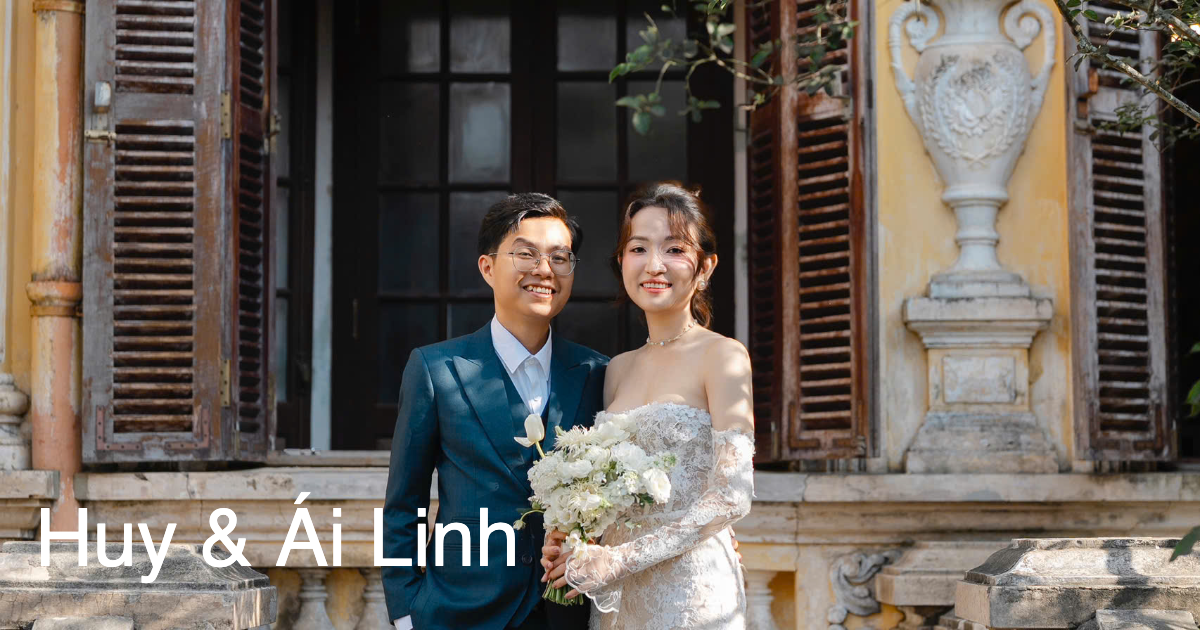
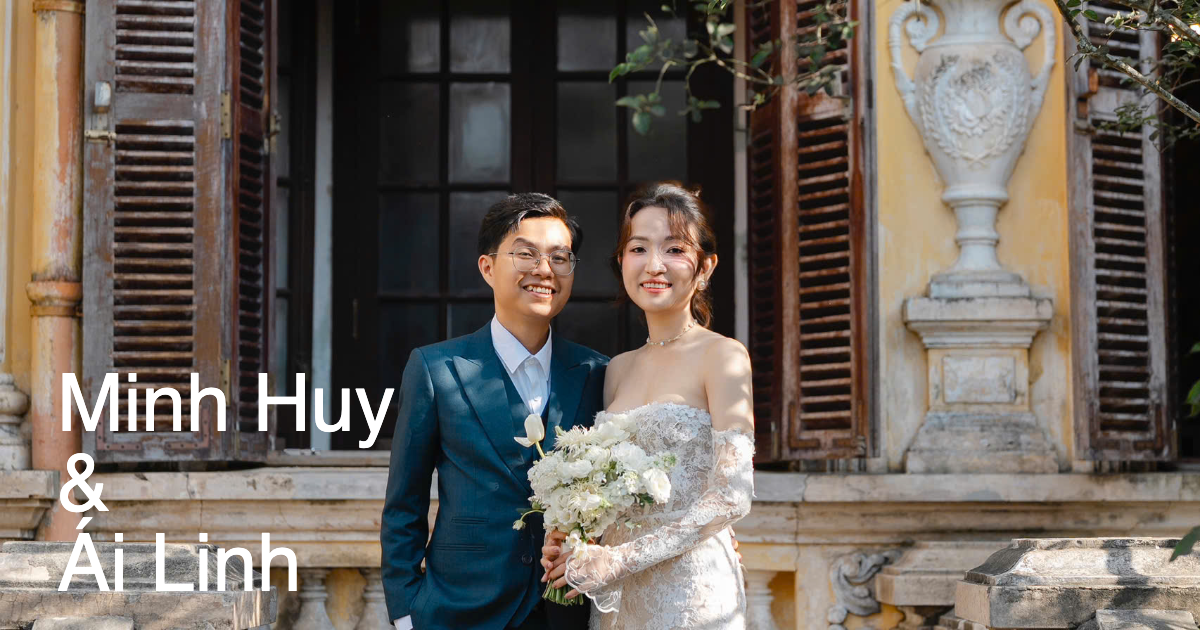
update maps

Changed region(s): [[0.0308, 0.7238, 0.4317, 0.9349], [0.0308, 0.573, 0.3392, 0.7238]]

diff --git a/src/App.jsx b/src/App.jsx
@@ -134,7 +134,7 @@ function App() {
         <div className="mainBanner--img" data-aos="zoom-out-up" data-aos-duration="1500">
           <img 
             src="/lh/1.jpeg" 
-            alt="Huy & Ái Linh Wedding" 
+            alt="Minh Huy & Ái Linh Wedding" 
             loading="eager"
             fetchPriority="high"
             onClick={() => openLightbox('/lh/1.jpeg')}
@@ -142,7 +142,7 @@ function App() {
           />
         </div>
         <div className="mainBanner--content">
-          <h1 data-aos-delay="700" data-aos="zoom-out-up" data-aos-duration="1000">Huy & Ái Linh</h1>
+          <h1 data-aos-delay="700" data-aos="zoom-out-up" data-aos-duration="1000">Minh Huy & Ái Linh</h1>
           <h2 data-aos-delay="1000" data-aos="zoom-out-up" data-aos-duration="1000">HERE BEGINS THE REST OF OUR STORY</h2>
         </div>
       </div>
@@ -259,7 +259,7 @@ function App() {
               <span className="img1">
                 <img 
                   src="/lh/2.jpeg" 
-                  alt="Huy & Ái Linh" 
+                  alt="Minh Huy & Ái Linh" 
                   loading="lazy"
                   onClick={() => openLightbox('/lh/2.jpeg')}
                   style={{ cursor: 'pointer' }}
@@ -279,7 +279,7 @@ function App() {
               <span className="img1">
                 <img 
                   src="/lh/4.jpeg" 
-                  alt="Huy & Ái Linh" 
+                  alt="Minh Huy & Ái Linh" 
                   loading="lazy"
                   onClick={() => openLightbox('/lh/4.jpeg')}
                   style={{ cursor: 'pointer' }}
@@ -343,18 +343,24 @@ function App() {
               <span className="time-highlight">Đón khách: <strong>11h</strong></span> | <span className="time-highlight">Khai tiệc: <strong>11h30</strong></span>
             </span>
           </p>
-          <div className="venue-map" data-aos="zoom-out-up" data-aos-duration="1500">
+          <a 
+            href="https://www.google.com/maps/dir/?api=1&destination=11.1459722,106.8439167"
+            target="_blank"
+            rel="noopener noreferrer"
+            className="venue-map"
+            data-aos="zoom-out-up"
+            data-aos-duration="1500"
+          >
             <iframe
               src="https://www.google.com/maps?q=11.1459722,106.8439167&hl=vi&z=17&output=embed"
               width="100%"
               height="300"
-              style={{ border: 0, borderRadius: '8px' }}
-              allowFullScreen=""
+              style={{ border: 0, borderRadius: '8px', pointerEvents: 'none' }}
               loading="lazy"
               referrerPolicy="no-referrer-when-downgrade"
               title="Văn phòng ấp Tân Thành 3"
             ></iframe>
-          </div>
+          </a>
         </div>
       </section>
 
@@ -382,18 +388,24 @@ function App() {
               <span className="time-highlight">Đón khách: <strong>11h</strong></span> | <span className="time-highlight">Vào tiệc: <strong>11h30</strong></span>
             </span>
           </p>
-          <div className="venue-map" data-aos="zoom-out-up" data-aos-duration="1500">
+          <a 
+            href="https://www.google.com/maps/dir/?api=1&destination=10.2395159,106.3786305"
+            target="_blank"
+            rel="noopener noreferrer"
+            className="venue-map"
+            data-aos="zoom-out-up"
+            data-aos-duration="1500"
+          >
             <iframe
               src="https://www.google.com/maps?q=10.2395159,106.3786305&hl=vi&z=17&output=embed"
               width="100%"
               height="300"
-              style={{ border: 0, borderRadius: '8px' }}
-              allowFullScreen=""
+              style={{ border: 0, borderRadius: '8px', pointerEvents: 'none' }}
               loading="lazy"
               referrerPolicy="no-referrer-when-downgrade"
               title="TTC Palace Bến Tre"
             ></iframe>
-          </div>
+          </a>
         </div>
       </section>
 

diff --git a/src/App.css b/src/App.css
@@ -813,6 +813,20 @@ img {
   border-radius: 8px;
   overflow: hidden;
   box-shadow: 0 4px 20px rgba(143, 119, 91, 0.15);
+  display: block;
+  text-decoration: none;
+  cursor: pointer;
+  transition: transform 0.2s ease, box-shadow 0.2s ease;
+  position: relative;
+}
+
+.venue-map:hover {
+  transform: translateY(-2px);
+  box-shadow: 0 6px 25px rgba(143, 119, 91, 0.25);
+}
+
+.venue-map:active {
+  transform: translateY(0);
 }
 
 .venue-map iframe {
@@ -821,6 +835,7 @@ img {
   border: 0;
   border-radius: 8px;
   display: block;
+  pointer-events: none;
 }
 
 .date-highlight {
